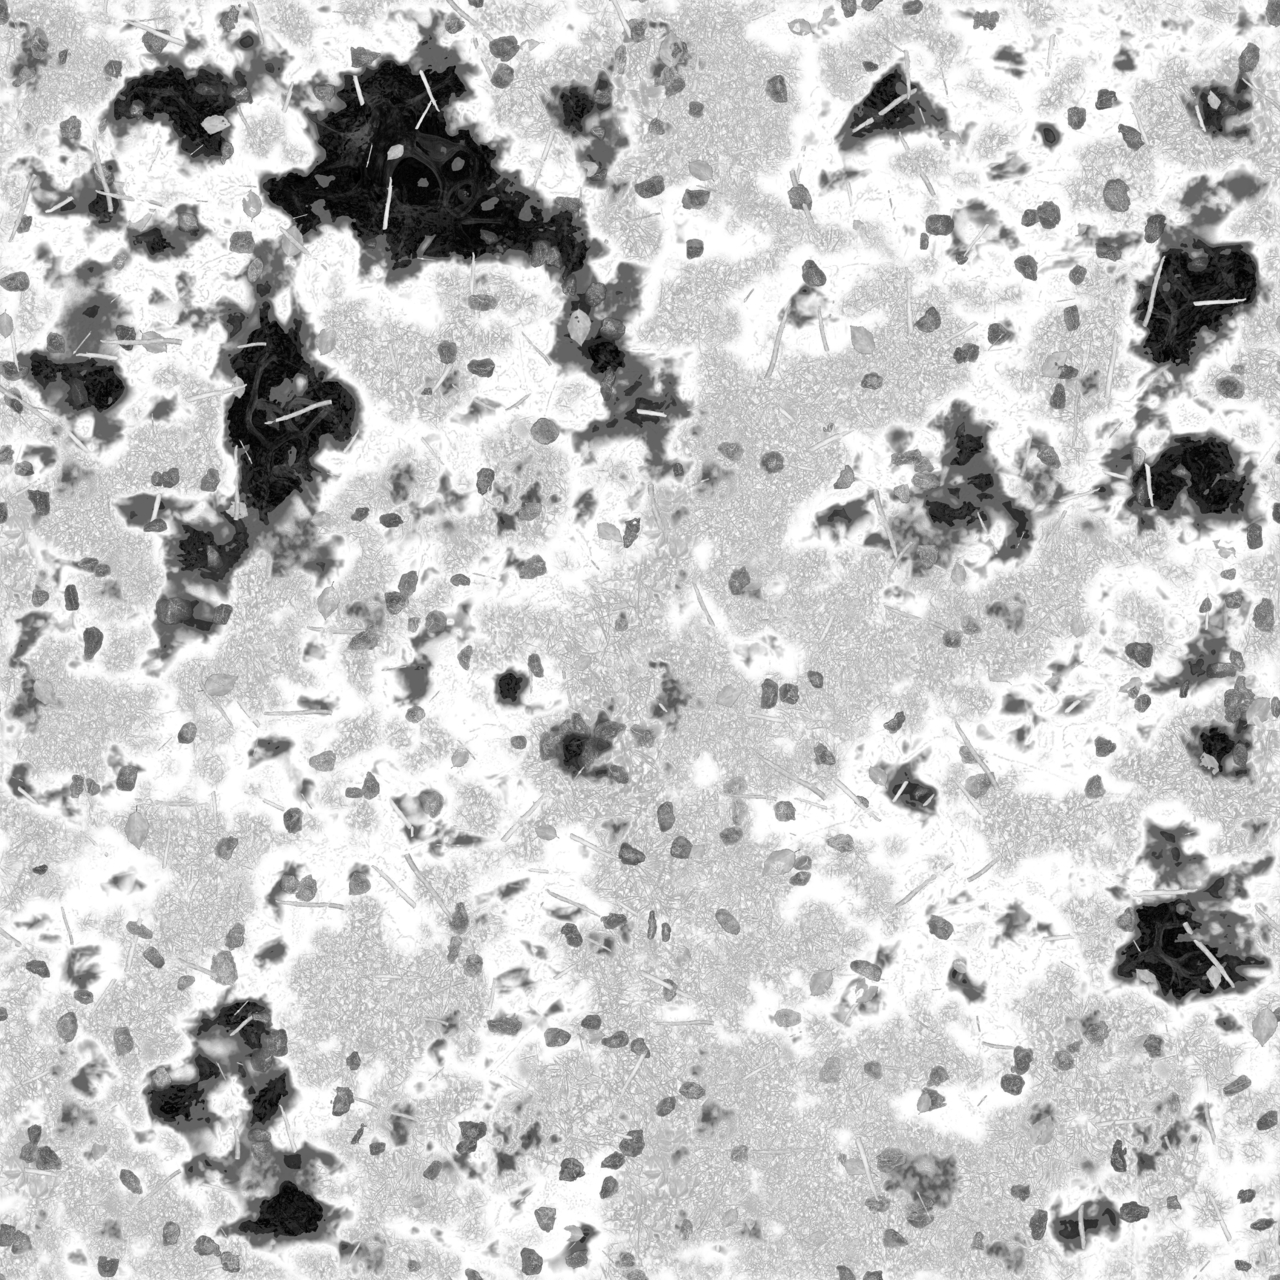
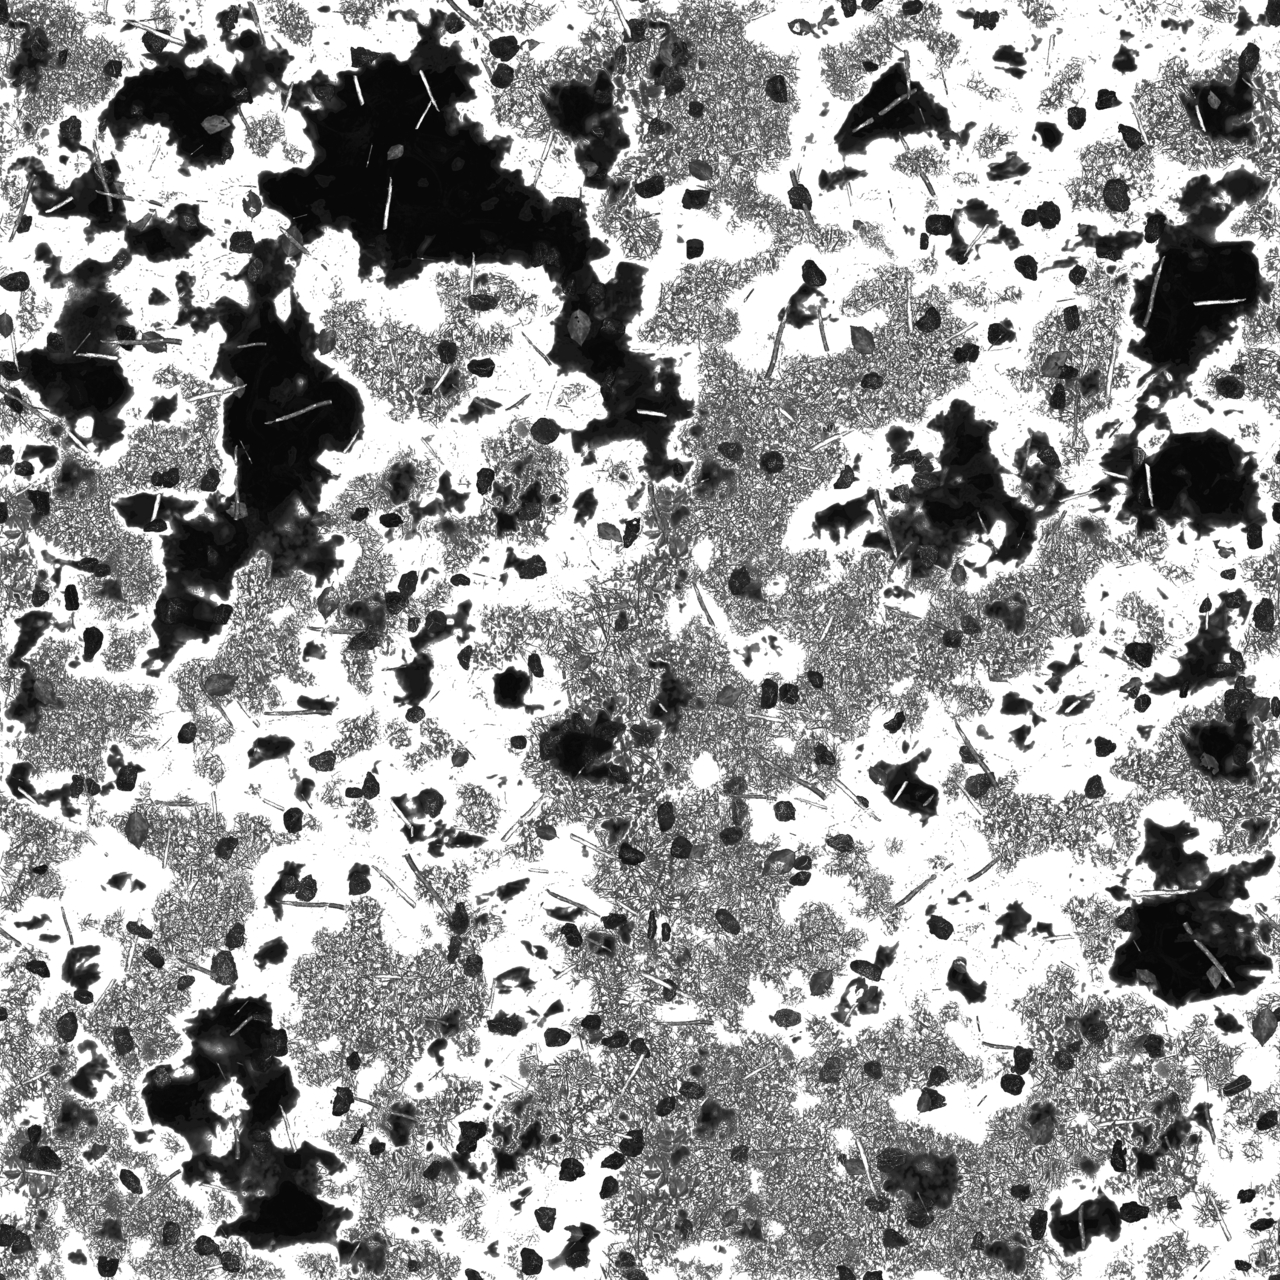
forest scene update: grass, light

diff --git a/examples/forest_scene.rs b/examples/forest_scene.rs
@@ -1,22 +1,49 @@
 mod cam;
 
-use bevy::{
-    prelude::*,
-};
+use std::num::NonZero;
+use bevy::prelude::*;
 use bevy_lod::*;
 use cam::*;
 use rand::Rng;
 
+use bevy::{
+    pbr::{DirectionalLightShadowMap, PointLightShadowMap},
+    diagnostic::{FrameTimeDiagnosticsPlugin, LogDiagnosticsPlugin},
+    prelude::*,
+    window::PresentMode,
+};
+
 fn main() {
     App::new()
-        .add_plugins(DefaultPlugins)
+        .add_plugins((
+            DefaultPlugins.set(WindowPlugin {
+                primary_window: Some(Window {
+                    title: "Forest Scene".into(),
+                    resolution: (1000., 600.).into(),
+                    present_mode: PresentMode::AutoVsync,
+                    // composite_alpha_mode: CompositeAlphaMode::Inherit, // or opaque
+                    visible: true,
+                    resizable: false,
+                    transparent: false,
+                    ime_enabled: false,
+                    desired_maximum_frame_latency: NonZero::new(1),
+                    ..default()
+                }),
+                ..default()
+            }),
+            LogDiagnosticsPlugin::default(),
+            FrameTimeDiagnosticsPlugin,
+        ))
+        .insert_resource(DirectionalLightShadowMap { size: 512 })
+        .insert_resource(PointLightShadowMap { size: 128 })
         .add_plugins(LODPlugin)
-        .add_systems(Startup, (setup_light, camera_setup, spawn_lodable_cube_textures, spawn_lodable_trees).chain())
+        .add_systems(Startup, (setup_light, camera_setup, spawn_ground, spawn_trees, spawn_grass).chain())
+        // .add_systems(Startup, (setup_light, camera_setup, spawn_grass).chain())
         .add_systems(Update, camera_test_move)
         .run();
 }
 
-fn spawn_lodable_cube_textures(
+fn spawn_ground(
     mut commands: Commands,
     asset_server: Res<AssetServer>,
     mut materials: ResMut<Assets<StandardMaterial>>,
@@ -24,8 +51,11 @@ fn spawn_lodable_cube_textures(
 ) {
     let plane_mesh = meshes.add(Plane3d::new(Vec3::Y, Vec2::splat(1.0)));
     let lod_mesh = lod_mesh::LodMesh {
-        l1: Some(asset_server.load("models/forest_ground_oak_pine_vol2/ground_l1_l2.glb#Mesh0/Primitive0")),
-        l2: Some(asset_server.load("models/forest_ground_oak_pine_vol2/ground_l1_l2.glb#Mesh1/Primitive0")),
+        // l1: Some(asset_server.load("models/forest_ground_oak_pine_vol2/ground_l1_l2.glb#Mesh0/Primitive0")),
+        // l2: Some(asset_server.load("models/forest_ground_oak_pine_vol2/ground_l1_l2.glb#Mesh1/Primitive0")),
+        // l3: Some(plane_mesh),
+        l1: Some(plane_mesh.clone()),
+        l2: Some(plane_mesh.clone()),
         l3: Some(plane_mesh),
     };
 
@@ -39,7 +69,6 @@ fn spawn_lodable_cube_textures(
                 metallic_roughness_texture: Some(asset_server.load("models/forest_ground_oak_pine_vol2/1k/roughness.jpeg")),
                 normal_map_texture: Some(asset_server.load("models/forest_ground_oak_pine_vol2/1k/normal.jpeg")),
                 emissive_texture: Some(asset_server.load("models/forest_ground_oak_pine_vol2/1k/height.jpeg")),
-                metallic: 1.0,
                 ..Default::default()
             }
         )),
@@ -50,7 +79,6 @@ fn spawn_lodable_cube_textures(
                 metallic_roughness_texture: Some(asset_server.load("models/forest_ground_oak_pine_vol2/256/roughness.jpeg")),
                 normal_map_texture: Some(asset_server.load("models/forest_ground_oak_pine_vol2/256/normal.jpeg")),
                 emissive_texture: Some(asset_server.load("models/forest_ground_oak_pine_vol2/256/height.jpeg")),
-                metallic: 1.0,
                 ..Default::default()
             }
         )),
@@ -61,7 +89,6 @@ fn spawn_lodable_cube_textures(
                 metallic_roughness_texture: Some(asset_server.load("models/forest_ground_oak_pine_vol2/32/roughness.jpeg")),
                 normal_map_texture: Some(asset_server.load("models/forest_ground_oak_pine_vol2/32/normal.jpeg")),
                 emissive_texture: Some(asset_server.load("models/forest_ground_oak_pine_vol2/32/height.jpeg")),
-                metallic: 1.0,
                 ..Default::default()
             }
         )),
@@ -86,56 +113,24 @@ fn spawn_lodable_cube_textures(
 }
 
 fn setup_light(mut commands: Commands) {
-    commands.spawn(PointLightBundle {
-        transform: Transform::from_xyz(17.0, 20.0, -10.0).looking_at(Vec3::ZERO, Vec3::Y),
-        point_light: PointLight {
-            intensity: 5000_000_0.0,
-            // color: Color::srgb(1.0, 0.0, 0.0),
-            color: Color::srgb(0.250, 0.214, 0.165),
-            shadows_enabled: false,
-            range: 30.0,
-            shadow_depth_bias: 0.001, // Налаштування глибини тіней
-            shadow_normal_bias: 0.001, // Налаштування нормалей тіней
-            ..default()
-        },
-        ..default()
-    });
-    commands.spawn(PointLightBundle {
-        transform: Transform::from_xyz(-15.0, 20.0, -24.0).looking_at(Vec3::ZERO, Vec3::Y),
-        point_light: PointLight {
-            intensity: 5000000000.0,
-            // color: Color::srgb(0.0, 0.0, 1.0),
-            color: Color::srgb(0.250, 0.214, 0.165),
-            shadows_enabled: false,
-            range: 30.0,
-            shadow_depth_bias: 0.001, // Налаштування глибини тіней
-            shadow_normal_bias: 0.001, // Налаштування нормалей тіней
-            ..default()
-        },
-        ..default()
-    });
-    commands.spawn(PointLightBundle {
-        transform: Transform::from_xyz(0.0, 20.0, 0.0).looking_at(Vec3::ZERO, Vec3::Y),
-        point_light: PointLight {
-            intensity: 500000000.0,
-            // color: Color::srgb(0.0, 0.0, 1.0),
-            color: Color::srgb(0.250, 0.214, 0.165),
-            shadows_enabled: false,
-            range: 30.0,
-            shadow_depth_bias: 0.001, // Налаштування глибини тіней
-            shadow_normal_bias: 0.001, // Налаштування нормалей тіней
+    commands.spawn(DirectionalLightBundle {
+        transform: Transform::from_xyz(-100.0, 50.0, -100.0).looking_at(Vec3::ZERO, Vec3::Y),
+        directional_light: DirectionalLight {
+            color: Color::srgb(0.25, 0.13, 0.11),
+            illuminance: 1000000.0,
+            shadows_enabled: true,
             ..default()
         },
         ..default()
     });
 }
 
-fn spawn_lodable_trees(
+fn spawn_trees(
     mut commands: Commands,
     asset_server: Res<AssetServer>,
     mut materials: ResMut<Assets<StandardMaterial>>,
 ) {
-    let lod_distance = lod_distance::LodDistances::new(50.0, 130.0, 500.0);
+    let lod_distance = lod_distance::LodDistances::new(60.0, 200.0, 500.0);
 
     let lod_mesh_stem = lod_mesh::LodMesh {
         l1: Some(asset_server.load("models/tree/tree.glb#Mesh2/Primitive0")),
@@ -148,12 +143,6 @@ fn spawn_lodable_trees(
         l2: Some(asset_server.load("models/tree/tree.glb#Mesh5/Primitive0")),
         l3: Some(Handle::default()), //Some(meshes.add(Plane3d::new(Vec3::Y, Vec2::splat(1.0))))//Some(asset_server.load("models/tree/tree.glb#Mesh6/Primitive0")),
     };
-
-    // let lod_mesh_branches = lod_mesh::LodMesh {
-    //     l1: Some(asset_server.load("models/tree/tree.glb#Mesh1/Primitive0")),
-    //     l2: Some(asset_server.load("models/tree/tree.glb#Mesh5/Primitive0")),
-    //     l3: default()
-    // };
 
     let stem_material = materials.add(StandardMaterial {
         base_color_texture: Some(asset_server.load("models/tree/trunk_Base_color.png")),
@@ -172,46 +161,91 @@ fn spawn_lodable_trees(
     });
 
     let mut rng = rand::thread_rng();
-    for z in -50..50 {
-        for x in -50..50 {
+    for z in -30..30 {
+        for x in -30..30 {
             let rand_range = -7.0..=7.0;
             let x_rand = rng.gen_range(rand_range.clone());
             let z_rand = rng.gen_range(rand_range);
 
             let random_yaw = rng.gen_range(0.0..std::f32::consts::TAU);
 
-
             let tree_transform = Transform::from_xyz(12.0 * x as f32 + x_rand, 8.5, 12.0 * z as f32 + z_rand).with_rotation(Quat::from_rotation_y(random_yaw));
 
-            commands.spawn((
-                PbrBundle {
-                    material: stem_material.clone(),
-                    transform: tree_transform.clone(),
-                    ..Default::default()
-                },
-                lod_mesh_stem.clone(),
-                lod_distance.clone()
-            ));
+            if rng.gen() {
+                commands.spawn((
+                    PbrBundle {
+                        material: stem_material.clone(),
+                        transform: tree_transform.clone(),
+                        ..Default::default()
+                    },
+                    lod_mesh_stem.clone(),
+                    lod_distance.clone()
+                ));
 
-            commands.spawn((
-                PbrBundle {
-                    material: leaf_material.clone(),
-                    transform: tree_transform.clone(),
-                    ..Default::default()
-                },
-                lod_mesh_leaf.clone(),
-                lod_distance.clone()
-            ));
+                if rng.gen() || rng.gen() {
+                    commands.spawn((
+                        PbrBundle {
+                            material: leaf_material.clone(),
+                            transform: tree_transform.clone(),
+                            ..Default::default()
+                        },
+                        lod_mesh_leaf.clone(),
+                        lod_distance.clone()
+                    ));
+                }
+            }
+        }
+    }
+}
 
-            // commands.spawn((
-            //     PbrBundle {
-            //         material: leaf_material.clone(),
-            //         transform: Transform::from_xyz(6.0, 8.5, 6.0),
-            //         ..Default::default()
-            //     },
-            //     lod_mesh_branches.clone(),
-            //     lod_distance.clone()
-            // ));
+
+fn spawn_grass(
+    mut commands: Commands,
+    asset_server: Res<AssetServer>,
+    mut meshes: ResMut<Assets<Mesh>>,
+    mut materials: ResMut<Assets<StandardMaterial>>,
+) {
+    let lod_distance = lod_distance::LodDistances::new(30.0, 50.0, 200.0);
+
+    let lod_mesh_grass = lod_mesh::LodMesh {
+        l1: Some(asset_server.load("models/grass/grass.glb#Mesh0/Primitive0")),
+        l2: Some(asset_server.load("models/grass/grass.glb#Mesh1/Primitive0")),
+        l3: Some(Handle::default()),
+    };
+
+    let grass_material = materials.add(StandardMaterial {
+        base_color_texture: Some(asset_server.load("models/grass/512/Grass.png")),
+        metallic_roughness_texture: Some(asset_server.load("models/grass/512/Grass_Roughness.png")),
+        normal_map_texture: Some(asset_server.load("models/grass/512/Grass_Normal.png")),
+        alpha_mode: AlphaMode::AlphaToCoverage,
+        ..default()
+    });
+
+    let mut rng = rand::thread_rng();
+
+    for z in -50..50 {
+        for x in -50..50 {
+            let rand_range = -3.0..=3.0;
+            let x_rand = rng.gen_range(rand_range.clone());
+            let z_rand = rng.gen_range(rand_range);
+
+            let random_yaw = rng.gen_range(0.0..std::f32::consts::TAU);
+
+            let grass_transform = Transform::from_xyz(x as f32 + x_rand, 9.0, z as f32 + z_rand)
+                .with_scale(Vec3::splat(0.4))
+                .with_rotation(Quat::from_rotation_y(random_yaw));
+
+            if rng.gen() && rng.gen() {
+                commands.spawn((
+                    PbrBundle {
+                        material: grass_material.clone(),
+                        transform: grass_transform,
+                        ..Default::default()
+                    },
+                    lod_mesh_grass.clone(),
+                    lod_distance.clone()
+                ));
+            }
         }
     }
 }

diff --git a/examples/cam.rs b/examples/cam.rs
@@ -32,10 +32,7 @@ pub fn camera_setup(
             progress: 0.0,
             speed: 0.04,
         },
-        bevy::core_pipeline::bloom::BloomSettings {
-            intensity: 0.3,
-            ..default()
-        },
+        bevy::core_pipeline::bloom::BloomSettings::NATURAL
         // Skybox {
         //     image: asset_server.load(".jpeg"),
         //     brightness: 1000.0,
